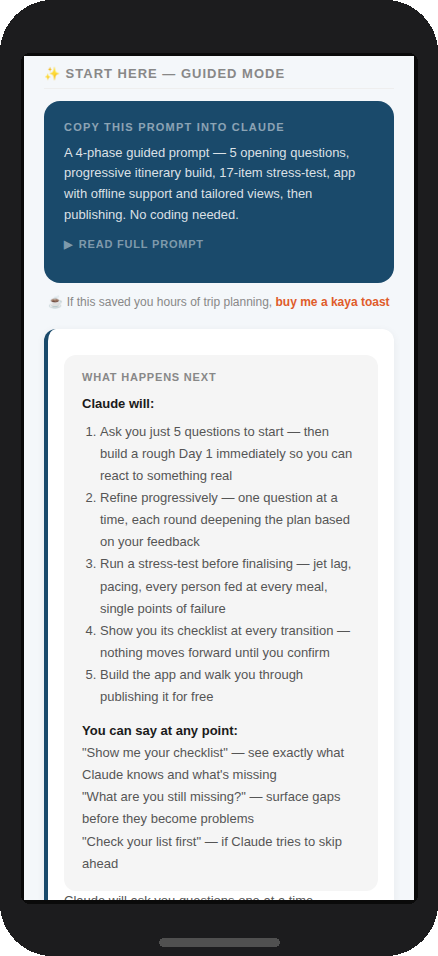
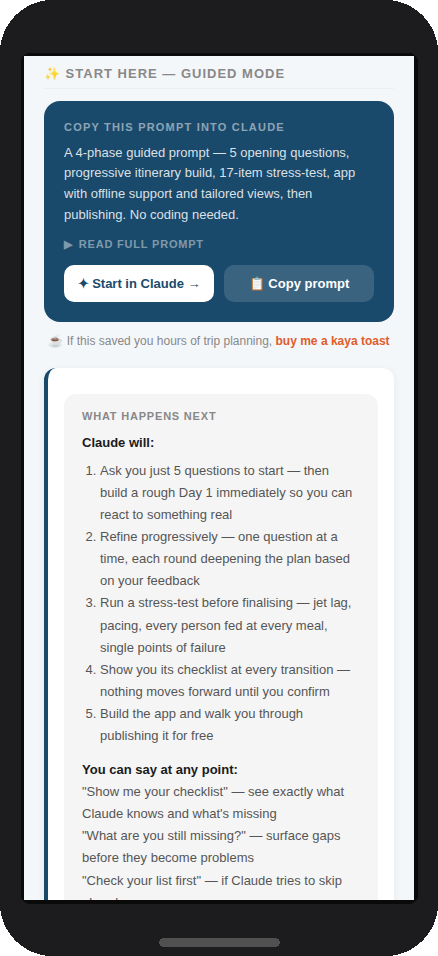
Make sure claude start and copy prompt buttons are visible

Changed region(s): [[0.089, 0.273, 0.9201, 0.9404], [0.742, 0.7584, 0.7717, 0.7887]]

diff --git a/guide.html b/guide.html
@@ -157,7 +157,9 @@ body { font-family: 'DM Sans', sans-serif; background: var(--bg); padding-bottom
       <div style="margin-top:12px;padding-top:12px;border-top:1px solid rgba(255,255,255,0.15);">
         <p style="font-size:12px;color:rgba(255,255,255,0.8);line-height:1.75;font-family:'DM Sans',sans-serif;margin:0;white-space:pre-wrap;" id="prompt-display-text"></p>
       </div>
-  <div style="display:flex;gap:10px;margin-top:14px;">
+    </details>
+
+    <div style="display:flex;gap:10px;margin-top:14px;">
     <a id="start-claude-link" href="#" target="_blank" rel="noopener"
       style="flex:1;display:flex;align-items:center;justify-content:center;gap:6px;
         background:white;color:#1A4A6B;border-radius:10px;padding:11px;
